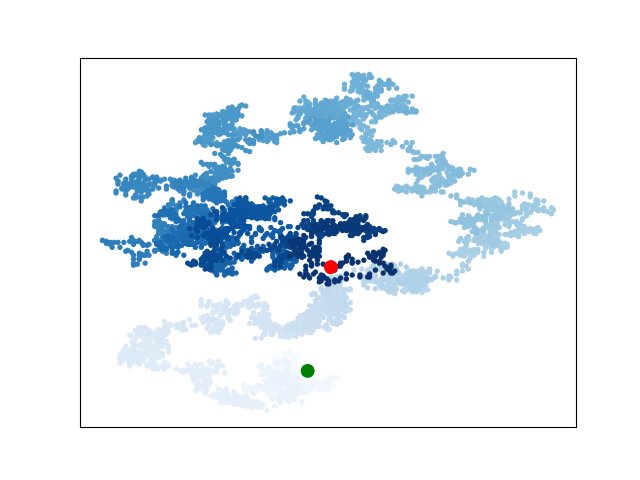
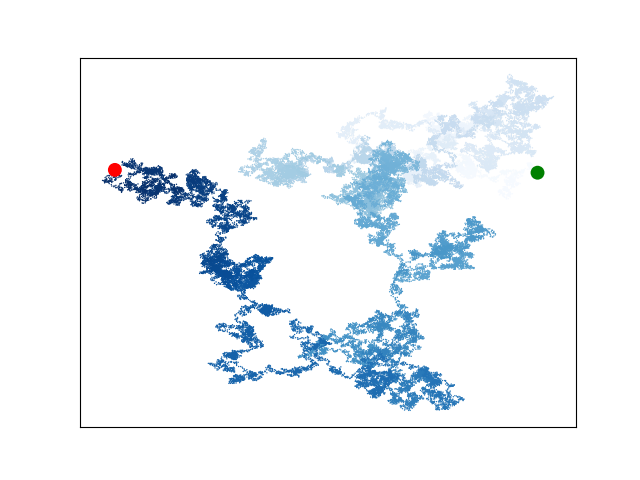
Adicionando pontos para plotagem (pg 382-383).

Changed region(s): [[0.1562, 0.125, 0.875, 0.875]]

diff --git a/capitulo_15-Gerando_dados/rw_visual.py b/capitulo_15-Gerando_dados/rw_visual.py
@@ -10,6 +10,9 @@ HISTÓRICO
 
     20211303: João Paulo, março de 2021.
         - Limpando os eixos (pg 382).
+
+    20211403: João Paulo, março de 2021.
+        - Adicionando pontos para plotagem (pg 382-383).
 """
 
 import matplotlib.pyplot as plt
@@ -20,14 +23,15 @@ i = 0
 
 # Continua criando novos passeios enquanto o programa estiver ativo:
 while True:
-    # Cria um passeio aleatório e plota os pontos:
-    rw = RandomWalk()
+    # Cria um passeio aleatório:
+    rw = RandomWalk(50000)
     rw.fill_walk()
 
+    # Plota os pontos e mostra o gráfico:
     point_numbers = list(range(rw.num_points))
 
     plt.scatter(rw.x_values, rw.y_values, c=point_numbers, cmap=plt.cm.Blues,
-            edgecolor='none', s=15)
+            edgecolor='none', s=1)
 
     # Enfatiza o primeiro e o último ponto:
     plt.scatter(0, 0, c='green', edgecolors='none', s=100)
